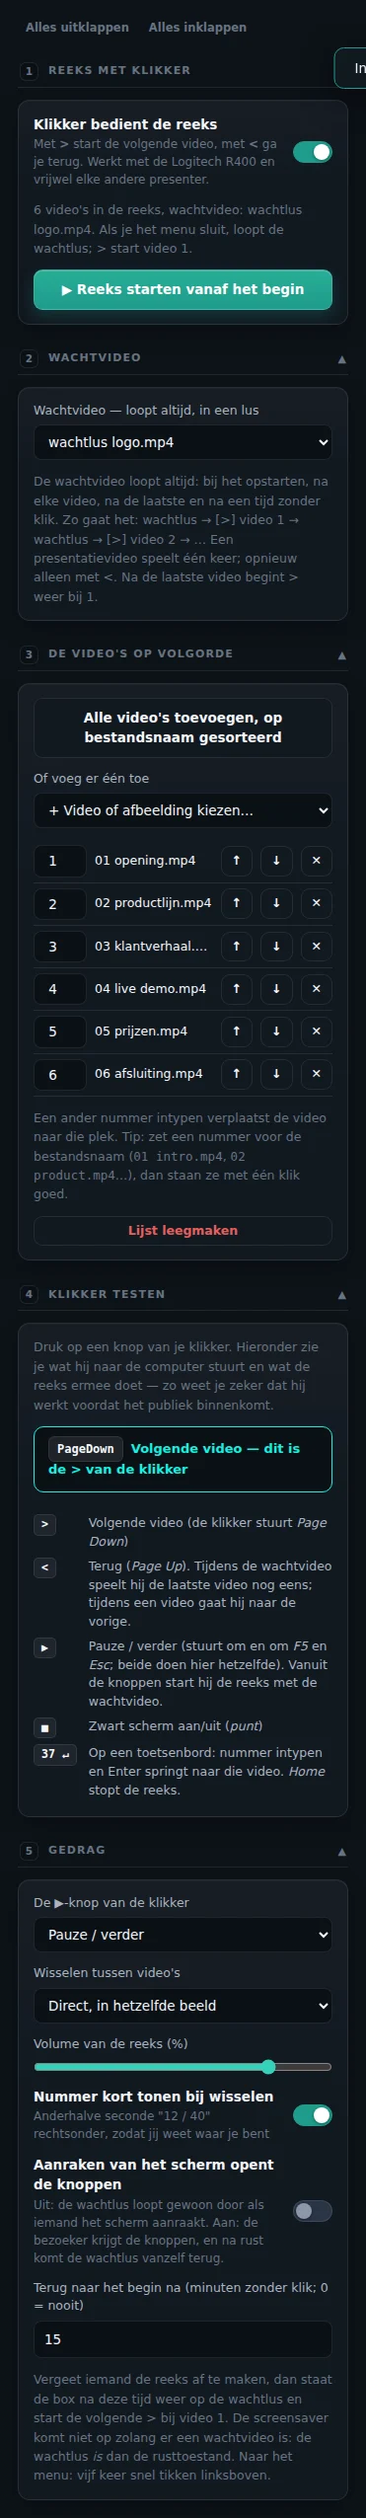
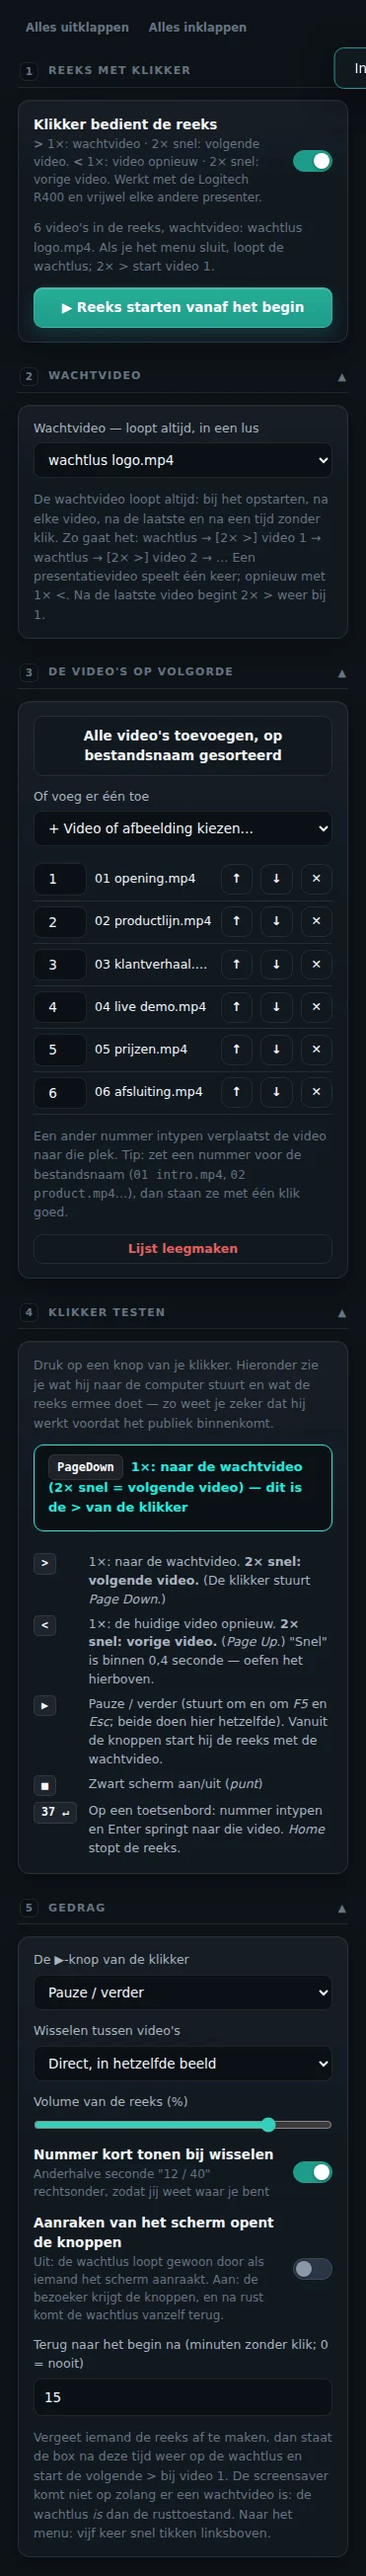
v2.21.0: klikker — 1× en 2× snel klikken
Beide pijltjes hebben nu twee standen:
    >  1×: naar de wachtvideo       2× snel: volgende video
    <  1×: huidige video opnieuw    2× snel: vorige video
Op de wachtvideo is "huidige" de video die net speelde.

Snel = binnen 0,4 s. Een dubbele klik gaat meteen bij de tweede druk; een
enkele 0,4 s later, omdat de box zo lang wacht of er een tweede komt. Bewust
niet de enkele klik meteen uitvoeren en bij een tweede omschakelen: dat geeft
het publiek een flits van de wachtvideo of een video die even opnieuw begint.

Klikken tellen in paren: 4× snel > is twee keer volgende, 3× snel is één keer
volgende plus (voor de losse derde) de wachtvideo. < en meteen > : de < telt
als enkel. Vastgehouden knop blijft één klik. Zonder wachtvideo is 1× >
gewoon de volgende video.

Klikkertest toont per druk of hij als 1× of als 2× snel binnenkomt, zodat de
presentator het tempo kan oefenen. Teksten in het menu, de status en de
LEES MIJ aangepast.

Handleiding hoofdstuk 13: nieuwe paragraaf "Eén of twee keer klikken", schema
en knoppentabel bijgewerkt; sneltoetsen en "Als er iets misgaat" (> gaat naar
de wachtvideo in plaats van door = te traag geklikt). Paneelopname vernieuwd.

Getest: reekstest 29/29 (test herkent 1× en 2×; 2× > binnen 60 ms na de
tweede druk; 1× > pas na de wachttijd; 1× < opnieuw vanaf het begin; 2× <
vorige, ook bij video 1; 1× < op de wachtvideo; 4×, 3× en < gevolgd door >;
laatste video; vasthouden; wachtlus; één keer spelen; opstarten; vijf tikken;
[…]

diff --git a/docs/handleiding/index.html b/docs/handleiding/index.html
@@ -289,7 +289,7 @@ header.cover{padding-block:88px 8px}
   <b>wat</b> het doet, <b>waar</b> het staat en <b>waarom</b> het er zo uitziet.
   Alle afbeeldingen komen uit de draaiende software, niet uit een ontwerp.</p>
   <div class="meta">
-    <span>Versie 2.20.0</span><span>23 hoofdstukken</span><span>33 schermafbeeldingen</span>
+    <span>Versie 2.21.0</span><span>23 hoofdstukken</span><span>33 schermafbeeldingen</span>
     <span>Nederlands</span>
   </div>
 </header>
@@ -1403,7 +1403,7 @@ header.cover{padding-block:88px 8px}
   </div>
 
   <div class="map">
-    <svg viewBox="0 0 700 170" role="img" aria-label="Het verloop: de wachtvideo loopt; een klik op het pijltje naar rechts start video 1; na afloop komt de wachtvideo terug; de volgende klik start video 2, en zo verder.">
+    <svg viewBox="0 0 700 170" role="img" aria-label="Het verloop: de wachtvideo loopt; twee keer snel op het pijltje naar rechts start video 1; na afloop komt de wachtvideo terug; weer twee keer snel start video 2, en zo verder.">
       <defs>
         <marker id="rk-a" viewBox="0 0 10 10" refX="9" refY="5" markerWidth="7" markerHeight="7" orient="auto">
           <path d="M0 0 L10 5 L0 10 z" fill="currentColor"/>
@@ -1436,15 +1436,15 @@ header.cover{padding-block:88px 8px}
         <path d="M442 71 H474"/><path d="M558 71 H590"/>
       </g>
       <g font-family="IBM Plex Mono, monospace" font-size="11" font-weight="600" text-anchor="middle">
-        <text x="110" y="40" fill="#0B9E92">klik &gt;</text>
-        <text x="342" y="40" fill="#0B9E92">klik &gt;</text>
-        <text x="574" y="40" fill="#0B9E92">klik &gt;</text>
+        <text x="110" y="40" fill="#0B9E92">2× &gt;</text>
+        <text x="342" y="40" fill="#0B9E92">2× &gt;</text>
+        <text x="574" y="40" fill="#0B9E92">2× &gt;</text>
       </g>
       <g font-family="IBM Plex Sans, sans-serif" font-size="10.5" fill="currentColor" opacity=".55" text-anchor="middle">
         <text x="226" y="112">vanzelf</text><text x="458" y="112">vanzelf</text>
       </g>
       <text x="14" y="150" font-family="IBM Plex Sans, sans-serif" font-size="12" fill="currentColor" opacity=".7">
-        Een video speelt één keer; opnieuw alleen met &lt;. Midden in een video op &gt; = meteen de volgende.
+        1× &gt; = terug naar de wachtvideo · 1× &lt; = video opnieuw · 2× &lt; = vorige video.
       </text>
     </svg>
   </div>
@@ -1459,11 +1459,11 @@ header.cover{padding-block:88px 8px}
     <thead><tr><th>Knop</th><th>Stuurt</th><th>Wat de reeks ermee doet</th></tr></thead>
     <tbody>
       <tr><td><b>&gt;</b> (rechts)</td><td><code>Page Down</code></td>
-        <td><b>Volgende video.</b> Vanuit de knoppen start hij meteen de volgende video van
-        de reeks.</td></tr>
+        <td><b>1&times;: naar de wachtvideo.</b> Loopt er een video, dan stopt die en komt de
+        wachtlus. <b>2&times; snel: volgende video.</b></td></tr>
       <tr><td><b>&lt;</b> (links)</td><td><code>Page Up</code></td>
-        <td><b>Terug.</b> Is de video al afgelopen en loopt de wachtvideo, dan speelt hij de
-        laatste video nog eens. Loopt er een video, dan gaat hij naar de vorige.</td></tr>
+        <td><b>1&times;: de huidige video opnieuw</b> — of, op de wachtvideo, de video die net
+        speelde. <b>2&times; snel: vorige video.</b></td></tr>
       <tr><td><b>&#9654;</b> (start/stop)</td><td>om en om <code>F5</code> en <code>Esc</code></td>
         <td><b>Pauze / verder</b> — of, als je dat kiest, de reeks stoppen. Vanuit de knoppen
         start hij de reeks met de wachtvideo, zoals F5 in PowerPoint een diavoorstelling
@@ -1487,7 +1487,7 @@ header.cover{padding-block:88px 8px}
 
   <div class="split">
     <figure><div class="panelshot tall">
-      <img src="img/paneel-reeks.webp" alt="Het paneel Reeks en klikker" width="371" height="2551" loading="lazy">
+      <img src="img/paneel-reeks.webp" alt="Het paneel Reeks en klikker" width="371" height="2609" loading="lazy">
     </div></figure>
     <div class="tw"><table>
       <thead><tr><th>Veld</th><th>Wat het doet</th><th>Waarom</th></tr></thead>
@@ -1496,7 +1496,7 @@ header.cover{padding-block:88px 8px}
           klikker doet niets.</td><td>Zodat een toevallige Page Down op een gewoon toetsenbord
           niet ineens een presentatie start.</td></tr>
         <tr><td>Reeks starten vanaf het begin</td><td>Sluit het menu, zet de wachtlus aan en
-          begint opnieuw bij 1: de eerste klik op &gt; start video 1.</td><td>Voor de generale
+          begint opnieuw bij 1: 2&times; &gt; start video 1.</td><td>Voor de generale
           repetitie en voor de echte start.</td></tr>
         <tr><td>Wachtvideo</td><td>Loopt <b>altijd</b>, in een lus: bij het opstarten, na
           elke video, na de laatste en na een tijd zonder klik.</td>
@@ -1509,8 +1509,8 @@ header.cover{padding-block:88px 8px}
           bestandsnaam gesorteerd — <code>2 intro</code> vóór <code>10 slot</code>. De
           wachtvideo slaat hij over.</td><td>Geef je bestanden een nummer voorin, dan staat
           de hele reeks met één klik goed.</td></tr>
-        <tr><td>Klikker testen</td><td>Laat zien welke toets er binnenkomt en wat de reeks
-          ermee doet.</td><td>Zo weet je vóór het publiek binnenkomt dat de ontvanger erin
+        <tr><td>Klikker testen</td><td>Laat zien welke toets er binnenkomt, of het een enkele
+          of een dubbele klik was, en wat de reeks ermee doet.</td><td>Zo weet je vóór het publiek binnenkomt dat de ontvanger erin
           zit en de batterijen goed zijn.</td></tr>
         <tr><td>De &#9654;-knop</td><td>Pauze / verder, of reeks stoppen.</td>
           <td>Smaak: wie lange video's heeft, wil kunnen pauzeren.</td></tr>
@@ -1534,6 +1534,26 @@ header.cover{padding-block:88px 8px}
     </table></div>
   </div>
 
+  <h3>Eén of twee keer klikken</h3>
+  <p class="measure">Beide pijltjes hebben twee standen. <b>Snel</b> betekent: de tweede klik
+  binnen 0,4 seconde na de eerste — ongeveer de dubbelklik-snelheid van Windows.</p>
+  <div class="tw"><table>
+    <thead><tr><th>Knop</th><th>1&times;</th><th>2&times; snel</th></tr></thead>
+    <tbody>
+      <tr><td><b>&gt;</b></td><td>Naar de wachtvideo</td><td>Volgende video</td></tr>
+      <tr><td><b>&lt;</b></td><td>Huidige video opnieuw</td><td>Vorige video</td></tr>
+    </tbody>
+  </table></div>
+  <p class="measure">Een dubbele klik gaat meteen bij de tweede druk. Een enkele klik komt
+  0,4 seconde later: zo lang wacht de box of er nog een tweede komt. De andere manier — de
+  enkele klik meteen uitvoeren en bij een tweede klik alsnog omschakelen — zou het publiek
+  een flits van de wachtvideo laten zien, of een video die even opnieuw begint.</p>
+  <p class="measure">Klikken tellen in paren. Vier keer snel op &gt; is twee keer
+  &quot;volgende&quot;; drie keer snel is één keer &quot;volgende&quot; en daarna, voor de
+  losse derde klik, de wachtvideo. Klik je eerst &lt; en meteen daarna &gt;, dan telt de
+  &lt; als een enkele klik. Oefen het tempo onder <b>Klikker testen</b>: daar zie je bij elke
+  druk of hij als 1&times; of als 2&times; snel binnenkomt.</p>
+
   <h3>De wachtlus is de rusttoestand</h3>
   <p class="measure">Staat de klikker aan en is er een wachtvideo gekozen, dan is de wachtlus
   wat de box doet als er niets gebeurt — net zoals anders de knoppen of de screensaver. Hij
@@ -1542,8 +1562,8 @@ header.cover{padding-block:88px 8px}
   menu. De lus gaat verder waar hij was, in plaats van steeds opnieuw te beginnen, zodat hij
   aanvoelt als één doorlopende lus.</p>
   <p class="measure">Een presentatievideo speelt precies één keer, ook als hij in
-  <b>Media</b> op herhalen staat. Opnieuw spelen gaat alleen met <b>&lt;</b>. Na de laatste
-  video begint <b>&gt;</b> weer bij video 1.</p>
+  <b>Media</b> op herhalen staat. Opnieuw spelen gaat alleen met <b>1&times; &lt;</b>. Na de
+  laatste video begint <b>2&times; &gt;</b> weer bij video 1.</p>
   <p class="measure">Naar het menu: <b>vijf keer snel tikken linksboven</b> — dat werkt ook op
   de wachtlus. Sluit je het menu, dan loopt de lus weer.</p>
 
@@ -1569,8 +1589,8 @@ header.cover{padding-block:88px 8px}
       een nummer en Enter om naar die video te springen; <code>Home</code> stopt de
       reeks.</span></span></li>
     <li><span class="n">4</span><span><b>Weg en terug</b> <span class="q">— het menu openen
-      of het handgebaar stopt de reeks; daarna komt de wachtlus terug, en &gt; gaat verder
-      waar je was.</span></span></li>
+      of het handgebaar stopt de reeks; daarna komt de wachtlus terug, en 2&times; &gt; gaat
+      verder waar je was.</span></span></li>
   </ul>
 
   <div class="note warn"><span class="t">Gebruik op de box de Windows-app</span>
@@ -2449,6 +2469,9 @@ header.cover{padding-block:88px 8px}
         de ontvanger zit er niet in.</td><td>Reeks &amp; klikker → <b>Klikker testen</b>: zie je
         daar niets binnenkomen, dan ligt het aan de ontvanger of de batterijen. Zie je wel iets,
         zet dan de schakelaar aan en sluit het menu.</td></tr>
+      <tr><td>&gt; gaat naar de wachtvideo in plaats van naar de volgende</td><td>De tweede klik
+        kwam te laat; de box zag twee losse klikken.</td><td>Klik binnen 0,4 seconde twee keer.
+        Oefen het tempo onder Reeks &amp; klikker &rarr; <b>Klikker testen</b>.</td></tr>
       <tr><td>&#9654; op de klikker haalt de browser uit volledig scherm</td><td>De klikker
         stuurt om en om F5 en Esc; Esc verlaat in sommige browsers het volledige scherm.</td>
         <td>Gebruik de Windows-app of <code>Start Holobox.bat</code> (kioskmodus).</td></tr>
@@ -2504,8 +2527,8 @@ header.cover{padding-block:88px 8px}
     <dt>5× tikken in de hoek linksboven</dt><dd>Opent het menu ook als de bedieningsknoppen verborgen zijn.</dd>
     <dt>Naar rechts vegen</dt><dd>Vorige scène, als “Vegen om terug te gaan” aanstaat.</dd>
     <dt>Hand omhoog</dt><dd>Terug naar het menu, als het handgebaar aanstaat (hoofdstuk 14).</dd>
-    <dt>Page Down / &gt; op de klikker</dt><dd>Volgende video van de reeks (hoofdstuk 13).</dd>
-    <dt>Page Up / &lt; op de klikker</dt><dd>Terug in de reeks.</dd>
+    <dt>Page Down / &gt; op de klikker</dt><dd>1&times;: naar de wachtvideo · 2&times; snel: volgende video (hoofdstuk 13).</dd>
+    <dt>Page Up / &lt; op de klikker</dt><dd>1&times;: huidige video opnieuw · 2&times; snel: vorige video.</dd>
     <dt>F5 of Esc / &#9654;</dt><dd>Pauze / verder in de reeks; vanuit de knoppen start de reeks.</dd>
     <dt>. (punt) / &#9632;</dt><dd>Zwart scherm aan/uit tijdens de reeks.</dd>
     <dt>Nummer + Enter</dt><dd>Naar die video van de reeks springen. <kbd>Home</kbd> stopt de reeks.</dd>
@@ -2557,7 +2580,7 @@ header.cover{padding-block:88px 8px}
 
   <hr class="soft">
   <p class="measure" style="color:var(--ink-3);font-size:14.5px">
-    Dit boek hoort bij versie 2.20.0 van de HereWeHolo Experience Manager. De bewegingswetten
+    Dit boek hoort bij versie 2.21.0 van de HereWeHolo Experience Manager. De bewegingswetten
     achter Motion staan uitgeschreven in <code>docs/MOTION.md</code>; het systeem zelf kun je
     in werking zien in <code>motion/motion-system.html</code>.
   </p>

diff --git a/studio/index.html b/studio/index.html
@@ -1730,7 +1730,8 @@
     <div class="card">
       <div class="toggle-row">
         <div><div class="t-label">Klikker bedient de reeks</div>
-          <div class="t-sub">Met <b>&gt;</b> start de volgende video, met <b>&lt;</b> ga je terug.
+          <div class="t-sub"><b>&gt;</b> 1&times;: wachtvideo &middot; 2&times; snel: volgende video.
+          <b>&lt;</b> 1&times;: video opnieuw &middot; 2&times; snel: vorige video.
           Werkt met de Logitech R400 en vrijwel elke andere presenter.</div></div>
         <label class="switch"><input type="checkbox" id="rkAan"><i></i></label>
       </div>
@@ -1766,9 +1767,10 @@
       publiek binnenkomt.</p>
       <div id="rkTest" class="rk-test">Nog niets ontvangen &mdash; druk op een knop van de klikker</div>
       <div class="rk-kaart">
-        <kbd>&gt;</kbd><span>Volgende video (de klikker stuurt <i>Page Down</i>)</span>
-        <kbd>&lt;</kbd><span>Terug (<i>Page Up</i>). Tijdens de wachtvideo speelt hij de laatste
-          video nog eens; tijdens een video gaat hij naar de vorige.</span>
+        <kbd>&gt;</kbd><span>1&times;: naar de wachtvideo. <b>2&times; snel: volgende video.</b>
+          (De klikker stuurt <i>Page Down</i>.)</span>
+        <kbd>&lt;</kbd><span>1&times;: de huidige video opnieuw. <b>2&times; snel: vorige video.</b>
+          (<i>Page Up</i>.) &quot;Snel&quot; is binnen 0,4 seconde &mdash; oefen het hierboven.</span>
         <kbd>&#9654;</kbd><span id="rkPlayUitleg">Pauze / verder (stuurt om en om <i>F5</i> en
           <i>Esc</i>; beide doen hier hetzelfde)</span>
         <kbd>&#9632;</kbd><span>Zwart scherm aan/uit (<i>punt</i>)</span>
@@ -2194,7 +2196,7 @@
 <script>
 'use strict';
 
-const APP_VERSION = '2.20.0';
+const APP_VERSION = '2.21.0';
 
 /* ================= Feature-flags (masterspec §0) ================= */
 // Actieve opties uit de genummerde catalogus; nieuwe nummers hier aanzetten.
@@ -7873,8 +7875,8 @@ function renderReeksStatus() {
     (wacht ? `wachtvideo: ${wacht.name}. ` : 'geen wachtvideo. ');
   if (!aantal) t += 'Zet hieronder video\'s op volgorde.';
   else if (Reeks.actief) t += `Loopt nu, bij video ${Reeks.pos}.`;
-  else if (Reeks.pos) t += `Staat bij video ${Reeks.pos} — met > ga je verder met ${Reeks.pos >= aantal ? 1 : Reeks.pos + 1}.`;
-  else t += wacht ? 'Als je het menu sluit, loopt de wachtlus; > start video 1.' : 'Druk op > op de klikker en video 1 start.';
+  else if (Reeks.pos) t += `Staat bij video ${Reeks.pos} — met 2× > ga je verder met ${Reeks.pos >= aantal ? 1 : Reeks.pos + 1}.`;
+  else t += wacht ? 'Als je het menu sluit, loopt de wachtlus; 2× > start video 1.' : 'Druk 2× op > op de klikker en video 1 start.';
   if (mist) t += ` Let op: ${mist} video${mist === 1 ? ' ontbreekt' : "'s ontbreken"} op deze computer.`;
   n.textContent = t;
 }
@@ -7894,8 +7896,8 @@ function renderReeks() {
   }
   $('#rkWachtNote').textContent = rkMedia(r.wachtId)
     ? 'De wachtvideo loopt altijd: bij het opstarten, na elke video, na de laatste en na een tijd zonder klik. ' +
-      'Zo gaat het: wachtlus → [>] video 1 → wachtlus → [>] video 2 → … Een presentatievideo speelt één keer; ' +
-      'opnieuw alleen met <. Na de laatste video begint > weer bij 1.'
+      'Zo gaat het: wachtlus → [2× >] video 1 → wachtlus → [2× >] video 2 → … Een presentatievideo speelt één keer; ' +
+      'opnieuw met 1× <. Na de laatste video begint 2× > weer bij 1.'
     : 'Kies een wachtvideo. Zonder wachtvideo blijft het laatste beeld van een video staan tot de volgende klik, ' +
       'en gaat de box na de laatste video terug naar de knoppen.';
   const voeg = $('#rkVoegToe');
@@ -10457,7 +10459,7 @@ const Reeks = (() => {
     stop();
   }
 
-  // Terug naar het begin: wachtvideo, en de volgende > start video 1.
+  // Terug naar het begin: wachtvideo, en de volgende 2× > start video 1.
   function naarBegin() {
     pos = 0;
     zwartZet(false);
@@ -10473,23 +10475,60 @@ const Reeks = (() => {
     return true;
   }
 
-  /* ---- De vier knoppen van de klikker ---- */
-  function volgende() {
-    laatsteKlik = Date.now();
+  /* ---- De vier knoppen van de klikker ----
+     De pijltjes hebben elk twee standen:
+         >  1×: naar de wachtvideo        2× snel: volgende video
+         <  1×: huidige video opnieuw     2× snel: vorige video
+     Om een enkele klik van een dubbele te onderscheiden wacht de box na de
+     eerste klik DUBBEL_MS of er een tweede komt. Een dubbele klik gaat dus
+     meteen bij de tweede druk; een enkele 0,4 s later. Andersom — de enkele
+     klik meteen uitvoeren en bij een tweede alsnog omschakelen — zou het
+     publiek een flits van de wachtvideo laten zien. */
+  const DUBBEL_MS = 400;
+  let eersteKlik = null;          // { richting, timer } — wacht op een eventuele tweede
+
+  function volgendeVideo() {
     if (!aanzetten('hervat')) return;
     if (pos >= lijst().length) return einde();
     speel(pos + 1);
   }
 
-  function vorige() {
-    laatsteKlik = Date.now();
-    const was = actief;
+  function vorigeVideo() {
     if (!aanzetten('hervat')) return;
-    if (!was) { if (pos) speel(pos); else if (!toonWacht()) toonNummer(`0 / ${lijst().length}`); return; }
     if (pos === 0) return;                                 // vóór video 1: niets om naar terug te gaan
-    // Is de video al afgelopen, dan is "terug" de video die net speelde.
-    if (fase === 'wacht' || fase === 'af') return speel(pos);
     speel(Math.max(1, pos - 1));
+  }
+
+  function opnieuw() {
+    if (!aanzetten('hervat')) return;
+    if (pos) return speel(pos);                            // de huidige (of net afgelopen) video
+    if (!toonWacht()) toonNummer(`0 / ${lijst().length}`);
+  }
+
+  function naarWacht() {
+    if (!aanzetten('hervat')) return;
+    zwartZet(false);
+    // Zonder wachtvideo is er geen wachtstand; dan is > gewoon de volgende.
+    if (!toonWacht()) volgendeVideo();
+  }
+
+  function enkel(richting) { if (richting === 'volgende') naarWacht(); else opnieuw(); }
+  function dubbel(richting) { if (richting === 'volgende') volgendeVideo(); else vorigeVideo(); }
+
+  function klik(richting) {
+    laatsteKlik = Date.now();
+    if (eersteKlik && eersteKlik.richting === richting) {
+      clearTimeout(eersteKlik.timer);
+      eersteKlik = null;
+      return dubbel(richting);
+    }
+    if (eersteKlik) {                                      // andere kant op: de vorige klik telt als enkel
+      clearTimeout(eersteKlik.timer);
+      const r = eersteKlik.richting;
+      eersteKlik = null;
+      enkel(r);
+    }
+    eersteKlik = { richting, timer: setTimeout(() => { eersteKlik = null; enkel(richting); }, DUBBEL_MS) };
   }
 
   function playKnop() {
@@ -10497,7 +10536,7 @@ const Reeks = (() => {
     if (!actief) {
       // Vanuit het menu start ▶ de reeks, net als F5 in PowerPoint.
       if (!aanzetten('hervat')) return;
-      if (!toonWacht()) { if (pos) speel(pos); else toonNummer(`Klaar · > start video 1`, 2500); }
+      if (!toonWacht()) { if (pos) speel(pos); else toonNummer(`Klaar · 2× > start video 1`, 2500); }
       return;
     }
     if ((cfg().playKnop || 'pauze') === 'stop') return stop();
@@ -10544,16 +10583,26 @@ const Reeks = (() => {
   // en spatie zijn daar voor gewone toetsenbordbediening.
   const VANUIT_MENU = new Set(['PageDown', 'PageUp', 'F5', 'Escape']);
   const UITLEG = {
-    volgende: 'Volgende video', vorige: 'Terug', play: '▶-knop',
+    volgende: '1×: naar de wachtvideo', vorige: '1×: video opnieuw', play: '▶-knop',
     zwart: 'Zwart scherm aan/uit', stop: 'Reeks stoppen', enter: 'Naar het ingetypte nummer',
     cijfer: 'Nummer intypen',
   };
 
+  let testVorige = { key: '', t: 0 };
   function toonTest(e, actie) {
     const box = document.getElementById('rkTest');
     if (!box) return;
     const naam = e.key === ' ' ? 'Spatie' : e.key;
     let wat = actie ? UITLEG[actie] : 'doet niets in de reeks';
+    // Ook in de test onderscheid tussen 1× en 2× snel: zo kan de presentator
+    // oefenen hoe snel een dubbele klik moet zijn.
+    if ((actie === 'volgende' || actie === 'vorige') && !e.repeat) {
+      const nu = performance.now();
+      const tweede = testVorige.key === e.key && nu - testVorige.t < DUBBEL_MS;
+      testVorige = tweede ? { key: '', t: 0 } : { key: e.key, t: nu };
+      if (tweede) wat = actie === 'volgende' ? '2× snel: volgende video' : '2× snel: vorige video';
+      else wat += actie === 'volgende' ? ' (2× snel = volgende video)' : ' (2× snel = vorige video)';
+    }
     if (actie === 'play') {
       wat = (cfg().playKnop === 'stop' ? 'Reeks stoppen' : 'Pauze / verder') +
         ' — de klikker wisselt zelf tussen F5 en Esc, beide doen hier hetzelfde';
@@ -10587,8 +10636,8 @@ const Reeks = (() => {
     e.stopImmediatePropagation();
     if (e.repeat) return;                                  // ingedrukt houden ≠ tien keer klikken
     switch (actie) {
-      case 'volgende': volgende(); break;
-      case 'vorige': vorige(); break;
+      case 'volgende': klik('volgende'); break;
+      case 'vorige': klik('vorige'); break;
       case 'play': playKnop(); break;
       case 'zwart': zwartWissel(); break;
       case 'stop': stop(); break;
@@ -10598,11 +10647,11 @@ const Reeks = (() => {
   }, { capture: true });
 
   return {
-    volgende, vorige, playKnop, zwartWissel, stop,
+    volgendeVideo, vorigeVideo, opnieuw, naarWacht, playKnop, zwartWissel, stop, DUBBEL_MS,
     // "Reeks starten" in het menu: vanaf het begin, met de wachtvideo.
     vanafBegin() {
       if (!aanzetten('begin')) return false;
-      if (!toonWacht()) toonNummer(`Klaar · > start video 1`, 2500, true);
+      if (!toonWacht()) toonNummer(`Klaar · 2× > start video 1`, 2500, true);
       return true;
     },
     // Na het herschikken van de lijst kloppen de voorgeladen spelers niet meer.
